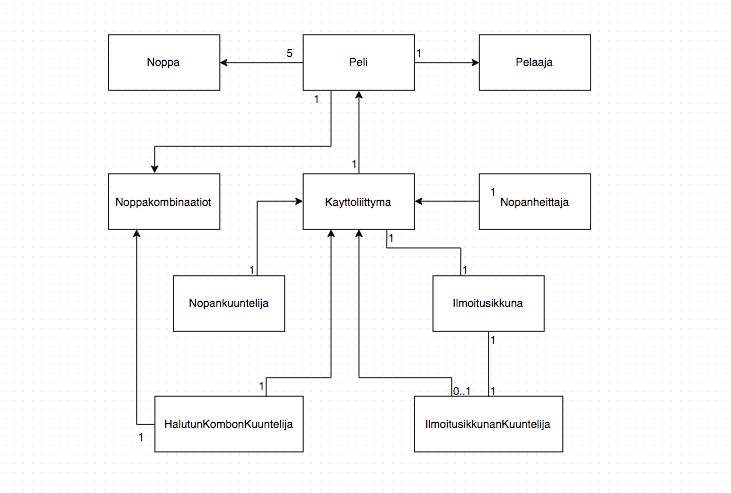
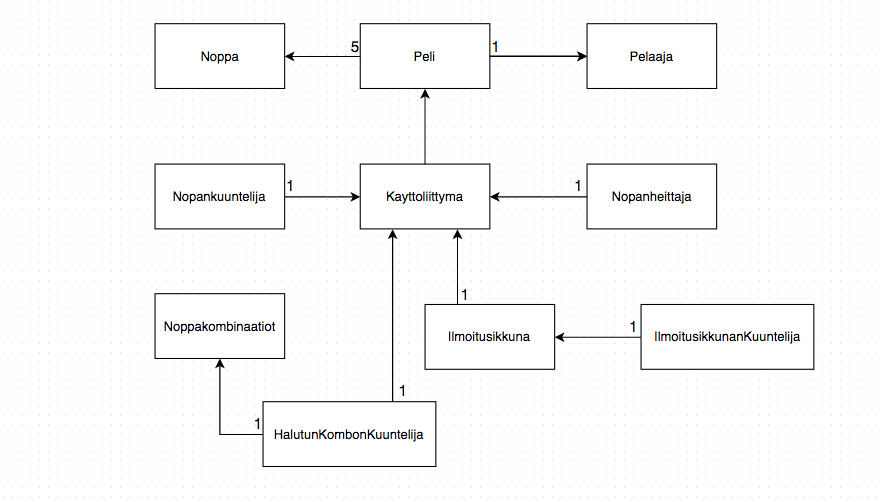
Viimeistelyä

diff --git a/Yatsy/src/main/java/gui/IlmoitusIkkuna.java b/Yatsy/src/main/java/gui/IlmoitusIkkuna.java
@@ -16,13 +16,11 @@ public class IlmoitusIkkuna implements Runnable {
     private final JFrame frame = new JFrame("Yatsy");
     private final JPanel panel = new JPanel();
     private final JButton aloituspainike;
-    private final IlmoitusIkkunanKuuntelija kuuntelija;
 
     public IlmoitusIkkuna(Kayttoliittyma kali, String ilmoitus) {
-        this.kuuntelija = new IlmoitusIkkunanKuuntelija(kali, this);
         this.kali = kali;
         aloituspainike = new JButton("Aloita uusi peli");
-        aloituspainike.addActionListener(kuuntelija);
+        aloituspainike.addActionListener(new IlmoitusIkkunanKuuntelija(this));
         panel.setLayout(new BorderLayout());
         panel.add(new JLabel(ilmoitus), BorderLayout.CENTER);
         panel.add(aloituspainike, BorderLayout.SOUTH);
@@ -40,6 +38,10 @@ public class IlmoitusIkkuna implements Runnable {
     
     public JFrame getFrame() {
         return this.frame;
+    }
+    
+    public Kayttoliittyma getKali() {
+        return this.kali;
     }
     
 }

diff --git a/Yatsy/src/main/java/gui/IlmoitusIkkunanKuuntelija.java b/Yatsy/src/main/java/gui/IlmoitusIkkunanKuuntelija.java
@@ -10,18 +10,16 @@ import javax.swing.SwingUtilities;
  * @author Miia Rämö
  */
 public class IlmoitusIkkunanKuuntelija implements ActionListener {
-    private final Kayttoliittyma vanha;
     private final IlmoitusIkkuna ikkuna;
     
-    public IlmoitusIkkunanKuuntelija(Kayttoliittyma vanha, IlmoitusIkkuna ikkuna) {
-        this.vanha = vanha;
+    public IlmoitusIkkunanKuuntelija(IlmoitusIkkuna ikkuna) {
         this.ikkuna = ikkuna;
     }
     
     @Override
     public void actionPerformed(ActionEvent ae) {
-        if (vanha != null) {
-            vanha.getFrame().dispose();
+        if (ikkuna.getKali() != null) {
+            ikkuna.getKali().getFrame().dispose();
         }
         
         Kayttoliittyma kali = new Kayttoliittyma();

diff --git a/Yatsy/src/main/java/gui/Kayttoliittyma.java b/Yatsy/src/main/java/gui/Kayttoliittyma.java
@@ -23,7 +23,6 @@ public class Kayttoliittyma implements Runnable {
     private final Color tausta;
     private final Peli peli;
     public JButton heittonappi;
-    private IlmoitusIkkuna ilmoitus;
 
     public Kayttoliittyma() {
         frame = new JFrame("Yatsy");
@@ -153,7 +152,7 @@ public class Kayttoliittyma implements Runnable {
      */
     public void paivita() {
         if (peli.getVuoro() == 15) {
-            this.ilmoitus = new IlmoitusIkkuna(this, "Lopputuloksesi on " + peli.getPelaajanPisteet(17) + " pistettä.");
+            IlmoitusIkkuna ilmoitus = new IlmoitusIkkuna(this, "Lopputuloksesi on " + peli.getPelaajanPisteet(17) + " pistettä.");
         }
         for (int i = 0; i < 5; i++) {
             this.asetaNopilleKuvat();

diff --git a/Yatsy/src/main/java/peli/Peli.java b/Yatsy/src/main/java/peli/Peli.java
@@ -6,14 +6,12 @@ package peli;
 public class Peli {
     private final Pelaaja pelaaja;
     private Noppa[] nopat;
-    private final NoppaKombinaatiot kombinaatiot;
     private int heittoja;
     private int vuoro;
     
     public Peli() {
         this.alustaNopat();
         this.pelaaja = new Pelaaja();
-        this.kombinaatiot = new NoppaKombinaatiot();
         this.vuoro = 0;
     }
     
